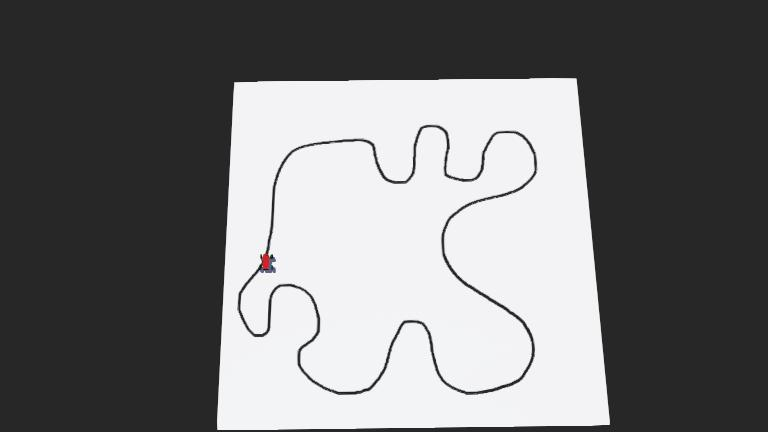
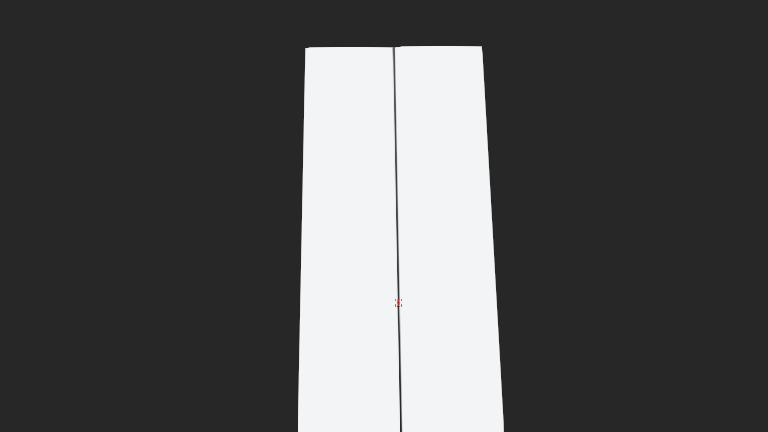
Simplified track editing

diff --git a/controllers/q_learning_controller/q_learning_controller.py b/controllers/q_learning_controller/q_learning_controller.py
@@ -9,7 +9,7 @@ from controllers.track_recognition import extract_track, process_track_into_line
 from controllers.image_processing import bytes_to_image, save_image
 from controllers.q_learning import  QLearner
 
-TRACK_DIRECTORY = "../../textures/hard_track.png"
+TRACK_DIRECTORY = "../../textures/Line.png"
 
 class RobotController:
     def __init__(self, time_step=64, use_camera=True):
@@ -18,6 +18,9 @@ class RobotController:
         if use_camera:
             self.camera = self.robot.getDevice("camera")
             self.camera.enable(time_step)
+
+        floor_node = self.robot.getFromDef("FLOOR")
+        self.floor_size = floor_node.getField("size").getSFVec3f()
 
         self.translation_field = self.robot.getFromDef("ROBOT").getField("translation")
         self.rotation_field = self.robot.getFromDef("ROBOT").getField("rotation")
@@ -59,10 +62,8 @@ class RobotController:
     def get_robots_position_and_rotation(self, track):
         robot_x = self.translation_field.getSFVec3f()[0]
         robot_y = -1 * self.translation_field.getSFVec3f()[1]
-        robot_x += 2.5
-        robot_y += 2.5
-        robot_x /= 5
-        robot_y /= 5
+        robot_x = robot_x / self.floor_size[0] + 0.5
+        robot_y = robot_y / self.floor_size[1] + 0.5
         robot_x *= track.shape[1] # 0 <= robot_x < track.shape[1]
         robot_y *= track.shape[0] # 0 <= robot_y < track.shape[0]
         robot_x = int(robot_x)
@@ -197,7 +198,7 @@ if __name__ == "__main__":
 
     # Initialize the robot controller
     robot_controller = RobotController(
-        time_step=64,
+        time_step=128,
         use_camera=use_camera
     )
 

diff --git a/controllers/track_recognition.py b/controllers/track_recognition.py
@@ -28,6 +28,8 @@ def extract_track(img):
 
 def process_track_into_line(processed_image):
     rotated_image = cv2.rotate(processed_image, cv2.ROTATE_90_CLOCKWISE)
+    if rotated_image is None:
+        return 0, 0
     # linear regression
     y, x = np.where(rotated_image > 0)
     A = np.vstack([x, np.ones(len(x))]).T
